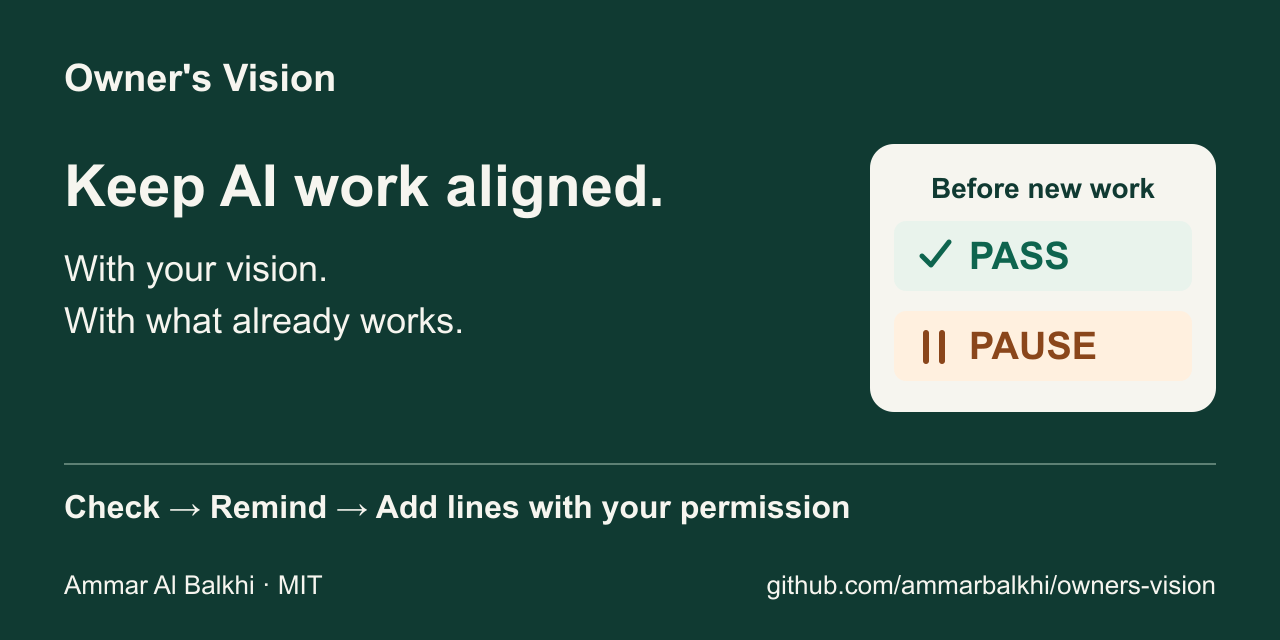
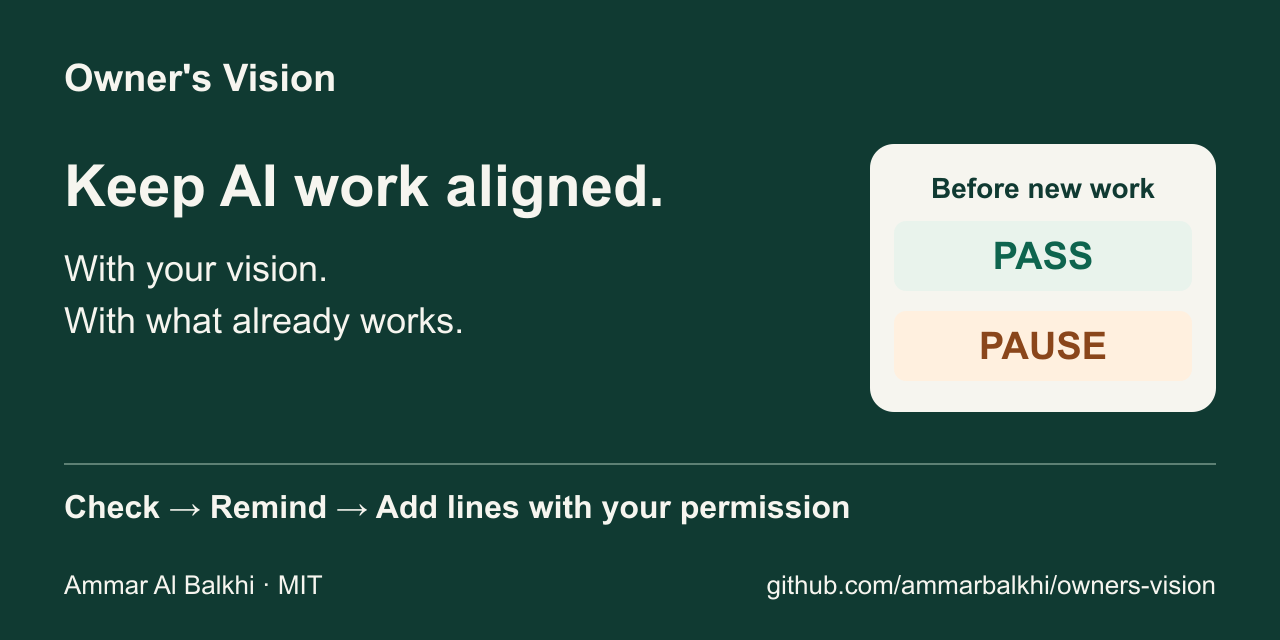
Polish workflow visuals and use a compact README header

Changed region(s): [[0.7188, 0.5, 0.875, 0.5625], [0.7188, 0.375, 0.875, 0.4375]]

diff --git a/README.md b/README.md
@@ -1,14 +1,14 @@
 # Owner's Vision
 
-**Keep AI work tied to what you asked for and what already works.**
+**Keep AI work aligned.**
 
 Owner's Vision helps AI coding agents keep long projects aligned with your requirements and completed work. **The Hand of the Owner** checks each proposed step against that saved record and pauses implementation when something conflicts or cannot be verified.
 
 Created by [Ammar Al Balkhi](https://github.com/ammarbalkhi) · [MIT](LICENSE) · [v0.1.0](https://github.com/ammarbalkhi/owners-vision/releases/tag/v0.1.0) · Early release
 
-![Owner's Vision workflow: before implementation, the Hand returns PASS or PAUSE. At the next major step, unrecorded verified progress gets a reminder. Only after explicit owner authorization are concise accomplishment lines appended, preserving all earlier text.](docs/demo.png)
+![Keep AI work aligned with your vision and what already works. The Hand returns PASS or PAUSE before new work. Check, remind, and add accomplishment lines only with your permission.](docs/social-preview.png)
 
-[Read the diagram as text](docs/demo.md).
+[See the workflow and text explanation](docs/demo.md).
 
 ## Install
 

diff --git a/docs/demo.md b/docs/demo.md
@@ -1,6 +1,10 @@
 # Owner's Vision in action
 
-The [workflow picture](demo.png) explains what the skill asks an agent to do as a project grows. It is a diagram, not a transcript or a screenshot. [Editable SVG](demo.svg).
+**Keep AI work aligned.**
+
+The README uses a [wide overview](social-preview.png). The workflow below shows the three actions: **Check → Remind → Add lines**. [Editable workflow SVG](demo.svg).
+
+![The Hand checks proposed work against requirements and recorded progress, reminds about verified accomplishments not yet recorded, and adds concise lines only after owner authorization. Earlier text stays intact.](demo.png)
 
 **Owner's Vision** is the saved destination and recorded accomplishments. **The Hand of the Owner** is the role that checks proposed work against them.
 
